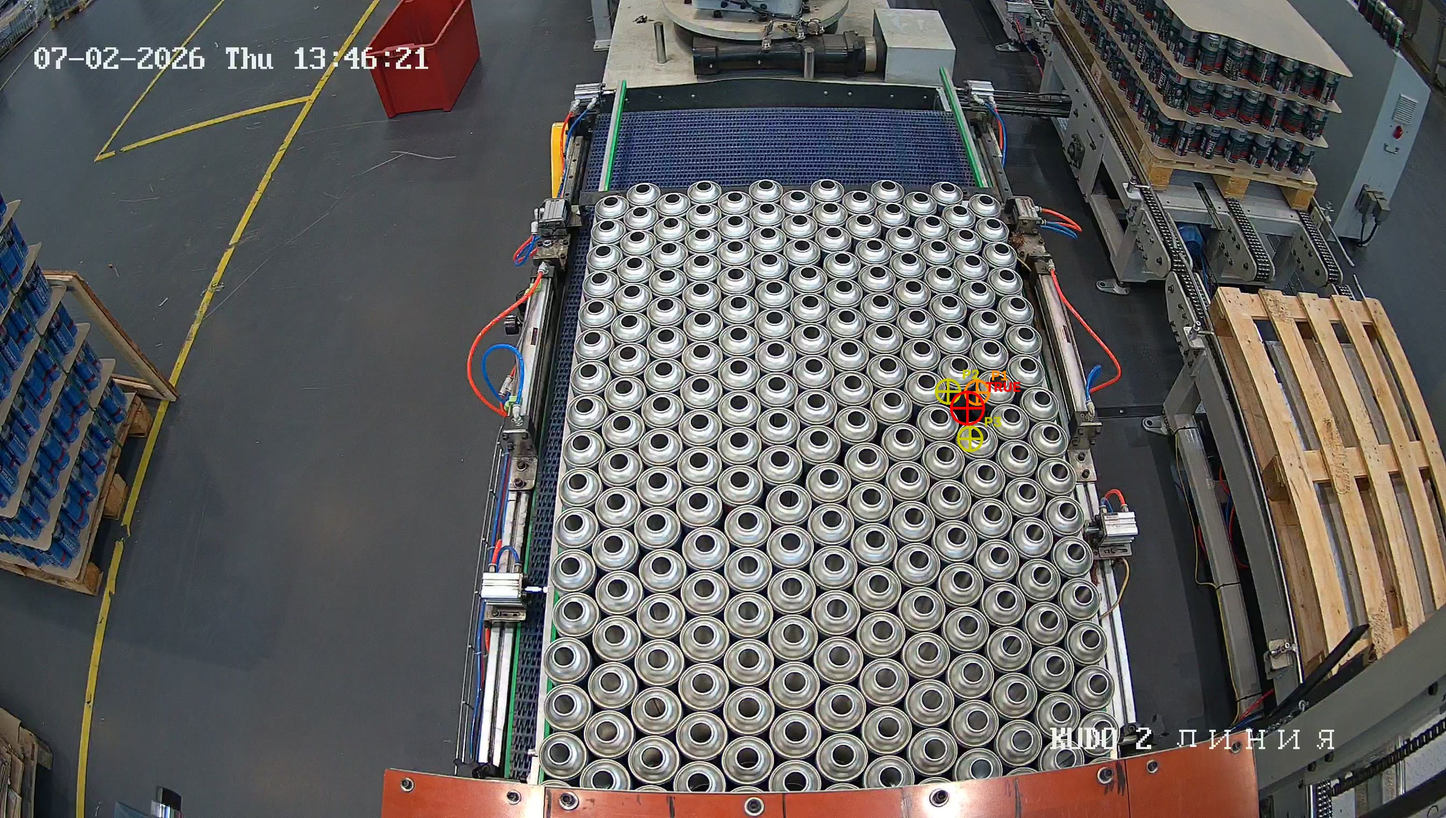
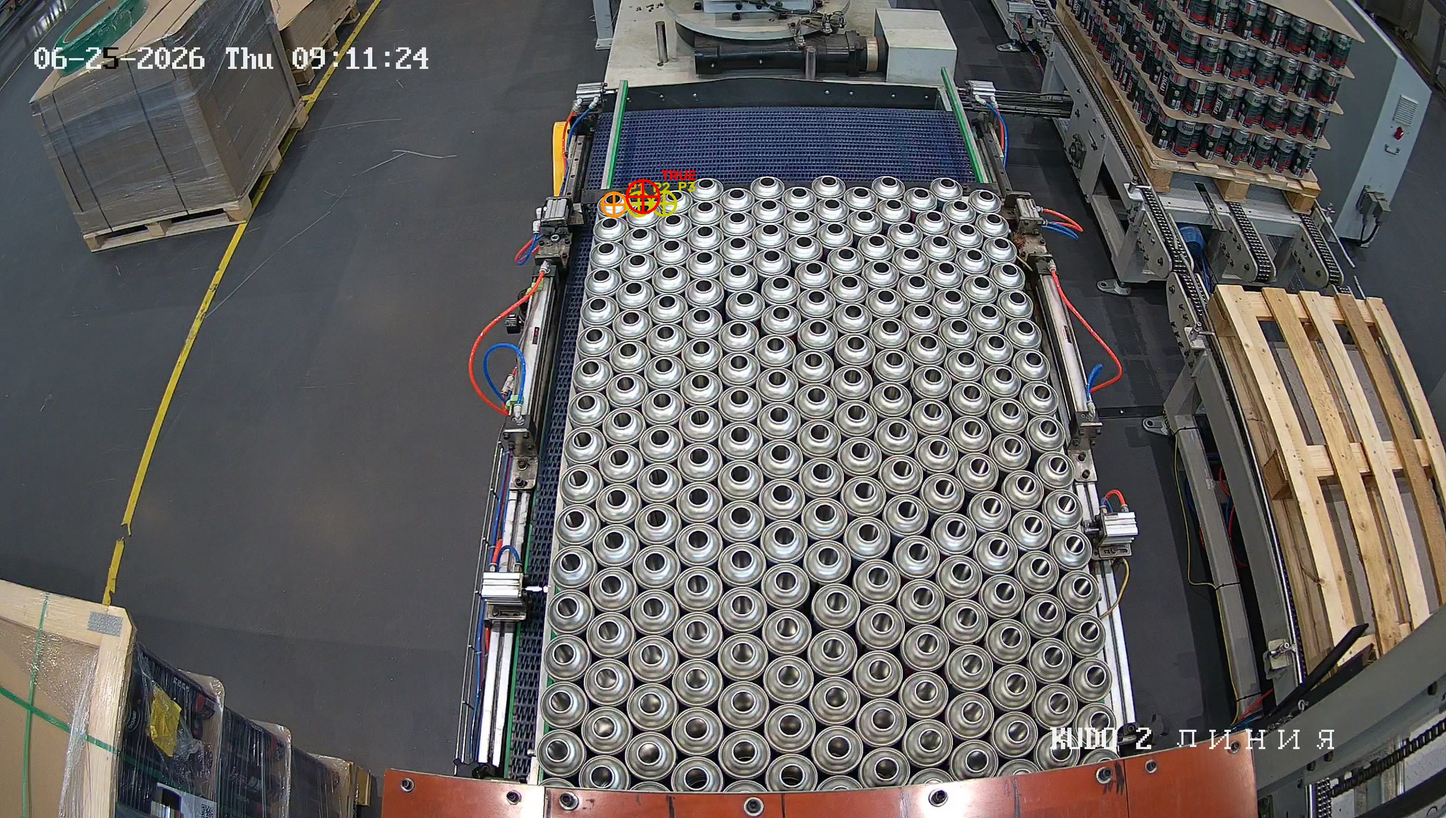
Regenerate first_pos example image using the new pipeline

diff --git a/system/README.md b/system/README.md
@@ -10,9 +10,7 @@
 
 - **`first_pos`** — `first_pos_v2/`: whole-image ResNet18 **ИЛИ**
   (row12 / row0 zone: ResNet-PatchCore **И** DINOv2-PatchCore, отфильтровано
-  HSV-детектором блика). См. `first_pos_v2/model.py` за деталями и
-  `CLAUDE.md` (раздел "first_pos: сессия 2026-08-20") за полной историей
-  экспериментов, приведших к этой архитектуре.
+  HSV-детектором блика). См. `first_pos_v2/model.py` за деталями.
 - **`second_pos`** — per-cell TinyCNN + LightGBM.
 
 ## Файлы
@@ -142,7 +140,7 @@ python can_anomaly_detector.py --service
 оверхед поглощается один раз при запуске сервиса, а не на первом
 реальном фото.
 
-### Скорость (замерено на CPU разработческого ноутбука, не Raspberry Pi 5!)
+### Скорость (замерено на CPU ноутбука)
 
 После прогрева `--service`:
 
@@ -152,23 +150,9 @@ python can_anomaly_detector.py --service
 | `first_pos` | фото с сигналом row12/row0 (DINOv2 запускается) | ~1.5-1.8с |
 | `second_pos` | любое фото | ~0.15-0.2с |
 
-⚠ Ни разу не измерено на настоящем Raspberry Pi 5. ARM Cortex-A76
-исторически заметно слабее CPU ноутбука x86 (см. `PROJECT_METHODOLOGY.md`
-в корне исследовательской директории). DINOv2 ViT-S/14 — самая тяжёлая
+Ни разу не измерено на настоящем Raspberry Pi 5. ARM Cortex-A76
+ заметно слабее CPU ноутбука x86. DINOv2 ViT-S/14 — самая тяжёлая
 модель во всей системе; `first_pos` с сигналом row12/row0 (худший случай,
 ~1.5-1.8с на ноутбуке) — это то, что нужно в первую очередь
 перепроверить на целевом железе перед вводом в эксплуатацию.
 
-## Известные ограничения `first_pos_v2`
-
-- **~9 из 521 ложных тревог на row12, крайние колонки (0, 11-15)**:
-  причина не установлена; распределения PatchCore-score реальных
-  пропусков и этих ложных тревог пересекаются на каждой проверенной оси.
-  Семь разных способов почини (перекалибровка, пороги, денсификация
-  банка и т.д.) не сработали или портили recall — см. CLAUDE.md. Нужны
-  новые размеченные фото этого паттерна, не доработка существующих
-  данных/алгоритма.
-- **Не проверено на реальном Raspberry Pi 5** — см. раздел "Скорость" выше.
-- **Recall/specificity** (честная независимая проверка, `audit_240` +
-  `newdate_281`, n=521): recall=100.0%, specificity=96.7%,
-  precision=93.0%, accuracy=97.7%.

diff --git a/Описание_системы.md b/Описание_системы.md
@@ -83,10 +83,8 @@ recall (не пропустить реальную проблему), а не у
 
 ## Скорость обработки одного фото
 
-⚠ **Ниже - измерения на CPU обычного ноутбука разработчика, не на
-Raspberry Pi 5.** Проверка на настоящем целевом железе ещё не проведена
-и является следующим шагом перед вводом в эксплуатацию - ARM-процессор
-Pi 5 исторически заметно слабее CPU ноутбука x86.
+**Ниже - измерения на CPU обычного ноутбука, не на
+Raspberry Pi 5.** 
 
 При условии, что модели уже загружены (см. про "тёплый" режим в
 `system/README.md`):
